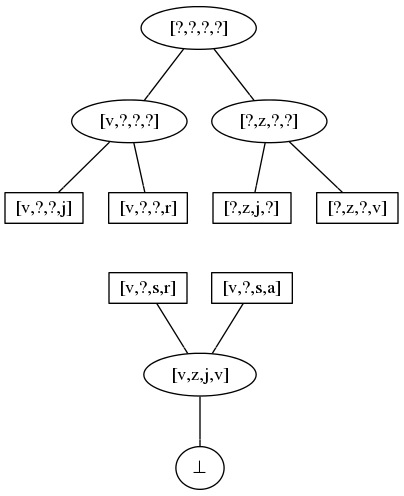
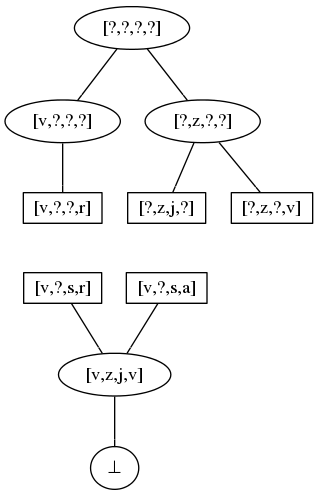
correction of question 2

diff --git a/ai_vraag_4.tex b/ai_vraag_4.tex
@@ -34,9 +34,9 @@ Als student krijg je tijdens het werken wel eens zin in spek met eieren. Als lui
 \caption{begin- en eindtoestand}
 \label{ienf}
 \end{figure}
-Figuur \ref{ienf}, toont de begintoestand en de gewenste eindtoestand. In de begintoestand zit de student aan zijn bureau in zijn kamer en heeft hij honger. In de eindtoestand zit de student weer aan zijn bureau en heeft hij een bord met gebakken spek en eieren.
+Figuur \ref{ienf} toont de begintoestand en de gewenste eindtoestand. In de begintoestand zit de student aan zijn bureau in zijn kamer en heeft hij honger. In de eindtoestand zit de student weer aan zijn bureau en heeft hij een bord met gebakken spek en eieren.
 \subsection{Acties}
-Het hele proces kan beschreven worden een door aantal acties die de student kan ondernemen.
+Het hele proces kan beschreven worden door een aantal acties die de student kan ondernemen.
 \begin{itemize}
 \item
 De student kan naar de keuken wandelen en terug. In figuur \ref{keuken} staan de overeenkomstige acties beschreven.
@@ -158,10 +158,10 @@ In de keuken kan de student koken en alle overeenkomstige acties daarvoor staan 
 \label{strips_1}
 \includegraphics[scale=0.25]{resources/graphs/strips_1.png}
 \end{figure}
-In het eerste deel van de oplossing stellen we de graaf op met alle 'establishes' en 'threatens' relaties. Dit gebeurt als volgt. We beginnen met de begin en de eindsituatie te tekenen. Nu gaan we alle precondities voor de eindsituatie af. Voor elke operatie die we toevoegen gaan we diepte eerst, recursief alle precondities af. $In(Kamer)$ is al waar bij het begin. We proberen aan $Heeft(Maaltijd)$ te voldoen door $LOB$ toe te voegen. Om aan de preconditities van $LOB$ te voldoen voegen we eerst $HEEN$ toe (om aan $In(Keuken)$ te voldoen). We zien nu dat $DEL In(Kamer)$ van $HEEN$ $ADD In(Kamer)$ bedreigt. Dit betekent dat $HEEN$ ofwel voor het begin zou moeten gebeuren, ofwel na het einde. Omdat dit beide niet kan verwijderen we de 'establishes' boog van $BEGIN$ naar $EINDE$ (Deze boog is wel getekend voor de duidelijkheid). Deze procedure zetten we verder tot aan alle precondities van $EINDE$ voldaan is en we een graaf bekomen zoals in figuur \ref{strips_1} \footnote{Ter informatie: De uiteenzetting van de procedure is niet gevraagd.}.
+In het eerste deel van de oplossing stellen we de graaf op met alle 'establishes' en 'threatens' relaties. Dit gebeurt als volgt. We beginnen met de begin en de eindsituatie te tekenen. Nu gaan we alle precondities voor de eindsituatie af. Voor elke operatie die we toevoegen gaan we diepte eerst, recursief alle precondities af. $In(Kamer)$ is al waar bij het begin. We proberen aan $Heeft(Maaltijd)$ te voldoen door $LOB$ toe te voegen. Om aan de precondities van $LOB$ te voldoen voegen we eerst $HEEN$ toe (om aan $In(Keuken)$ te voldoen). We zien nu dat $DEL In(Kamer)$ van $HEEN$ $ADD In(Kamer)$ bedreigt. Dit betekent dat $HEEN$ ofwel voor het begin zou moeten gebeuren, ofwel na het einde. Omdat dit allebei niet kan, verwijderen we de 'establishes' boog van $BEGIN$ naar $EINDE$ (Deze boog is wel getekend voor de duidelijkheid). Deze procedure zetten we verder tot aan alle precondities van $EINDE$ voldaan is en we een graaf bekomen zoals in figuur \ref{strips_1} \footnote{Ter informatie: De uiteenzetting van de procedure is niet gevraagd.}.
 
 In de graaf van figuur \ref{strips_1} zijn de groene bogen de 'establishes' bogen. Ze houden in dat de eigenschap bij het vertrekpunt ervoor zorgt dat aan een eigenschap bij het eindpunt voldaan is. De operatie waar de boog begint moet dus voor de operatie aan het eind van de boog plaatsvinden.
-De De rode bogen zijn de 'threatens' bogen. Deze betekenen dat de eigenschap bij het vertrekpunt de eigenschap bij het vertrekpunt van de boog waar hij naar wijst ongedaan maakt. De operatie waar de rode boog begint moet dus ofwel voor het vertrekpunt van de boog waar hij naar wijst plaatsvinden, ofwel na het eindpunt.
+De rode bogen zijn de 'threatens' bogen. Deze betekenen dat de eigenschap bij het vertrekpunt de eigenschap bij het vertrekpunt van de boog waar hij naar wijst ongedaan maakt. De operatie waar de rode boog begint moet dus ofwel voor het vertrekpunt van de boog waar hij naar wijst plaatsvinden, ofwel na het eindpunt.
 \subsection{Before-graaf}
 \begin{figure}[H]
 \centering
@@ -172,9 +172,9 @@ De De rode bogen zijn de 'threatens' bogen. Deze betekenen dat de eigenschap bij
 In figuur \ref{strips_2} is de graaf getekend met alle 'before'
 -relaties. We kunnen nu de mogelijke plannen opstellen. 
 
-In elk plan moeten we eerst naar de keuken gaan en op het einde het ei en het spek op een bord leggen, waarna we terug naar de kamen gaan. Er zijn echter een aantal mogelijke plannen omdat we daartussen kunnen koken in een aantal mogelijke volgorden.
+In elk plan moeten we eerst naar de keuken gaan en op het einde het ei en het spek op een bord leggen, waarna we terug naar de kamer gaan. Er zijn echter een aantal mogelijke plannen omdat we daartussen kunnen koken in verschillende volgorden.
 
-Het is makkelijk in te zien dat het niet uitmaakt of we eerst het ei bakken en daarna het spek. Bovendien maakt het niet uit of we eerst het ei uit de koelkast nemen of eerst het spek. We kunnen zelfs eerst het ei uit de koelkast nemen, dan het spek, eerst het spek bakken, en daarna pas het ei. Alle mogelijkheden zijn hieronder samengevat.
+Het is gemakkelijk in te zien dat het niet uitmaakt of we eerst het ei bakken en daarna het spek. Bovendien maakt het niet uit of we eerst het ei uit de koelkast nemen of eerst het spek. We kunnen zelfs eerst het ei uit de koelkast nemen, dan het spek, eerst het spek bakken, en daarna pas het ei. Alle mogelijkheden zijn hieronder samengevat.
 \[
 \begin{array}{c}
 BEGIN \rightarrow HEEN \rightarrow NE \rightarrow NS \rightarrow BE \rightarrow BS \rightarrow DSO\rightarrow LBO \rightarrow TERUG \rightarrow EINDE\\

diff --git a/ai_vraag_1.tex b/ai_vraag_1.tex
@@ -19,9 +19,9 @@ We kunnen het zoeken naar een oplossing modelleren met behulp van een graaf, waa
 \subsection{Eindtoestand} De begintoestand is gegeven in figuur \ref{rushour}. De eindtoestand is een toestand waarin de rode auto zich buiten het bord bevindt. 
 
 \subsection{Kostfunctie}De kostfunctie voor het A* algoritme is een belangrijke parameter. De kost van een toestand beschrijven we als het aantal vakjes dat alle autootjes in totaal verplaatst zijn om tot de huidige toestand te komen. We zouden kunnen opteren voor het aantal zetten dat nodig is om in de huidige toestand te komen als kostfunctie. Deze functie maakt minder onderscheid tussen goede en slechte toestanden en zal het probleem dus minder snel oplossen.
-5
-\subsection{Heuristische functie} De heuristische functie is een volgende belangrijke parameter voor het A* algoritme. Als heuristiek kiezen we het kleinste aantal auto's dat onbeweeglijk in de weg staat van de rode auto. We weten zeker dat dit een onderschatting is voor de totale kost omdat minstens al die auto's aan de kant moeten gezet worden. Als heuristiek kunnen we ook
-\footnote{We voegen hier nog één aan toe, omdat doeltoestanden dan precies één hebben als heuristische waarde en omdat de heuristische waarde van een toestand dan heel makkelijk intu\"itief te zien is. bvb: De heuristische waarde van de root is $3$ want $C$ staat in de weg van de rode auto en om $C$ te verplaatsen moeten er minstens $2$ auto's verplaatst worden, namelijk $A$ en $B$ of $O$ en $D$.}.
+
+\subsection{Heuristische functie} De heuristische functie is een volgende belangrijke parameter voor het A* algoritme. Als heuristiek kiezen we het kleinste aantal auto's dat onbeweeglijk in de weg staat van de rode auto. We weten zeker dat dit een onderschatting is voor de totale kost omdat minstens al die auto's aan de kant moeten gezet worden. \footnote{We voegen hier nog \'e\'en aan toe, omdat doeltoestanden dan precies $0$ hebben als heuristische waarde en omdat de heuristische waarde van een toestand dan heel makkelijk intu\"itief te zien is. bvb: De heuristische waarde van de root is $3$ want $C$ staat in de weg van de rode auto en om $C$ te verplaatsen moeten er minstens $2$ auto's verplaatst worden, namelijk $A$ en $B$ of $O$ en $D$.}
+Als heuristiek kunnen we bij voorbeeld ook de afstand van het rode autootje naar zijn doelpositie gebruiken. We doen dit hier niet omdat dit een minder goede heuristiek is.
 
 \section{Modeloplossing}
 De volledige oplossing voor dit probleem is sneller uit te leggen aan de hand van een rush-hour spelbord dan op papier. Dit probleem is echter een prachtig voorbeeld van hoe uiteenlopend de toepassingen van A* zijn. Daarom zal ik elk aspect van A* uit de oplossing eens volledig uitwerken maar niet elke keer. Ik zal het probleem dus niet volledig oplossen, maar wel zo veel als nodig. Het volledige A* algoritme bevindt zich nog eens in de appendix (\ref{A*}).
@@ -488,7 +488,7 @@ We zien nu dat er een doeltoestand in de rij staat, namelijk $T_{49}$, maar A* z
 De verdere uitwerking van de oplossing zal ik hier niet volledig opschrijven, maar beschrijven.
 
 Eigen aan dit probleem is dat er in de latere iteraties zeer veel cycli zullen worden gevormd, omdat het aantal mogelijke staten eindig en zelfs vrij klein is.
-Als we de vierde iteratie naar de rij kijken, zien we dat de doeloplossing die er in zit, op de negende plaats staat. Vanaf nu zal A* enkel nog oplossingen vinden die slechter zijn dan het pad naar $T_{49}$, en dus worden verwijderd. In deze opgave is het toevallig zo dat er twee even lange paden zijn naar een eindtoestand. A* zal ze dus zeker alle twee gevonden hebben op een bepaald moment. Het algoritme zal één van de twee paden verwijderen uit de rij. We weten dus dat A*, in dit specifiek geval, nog minstens 9 iteraties zal voltooien voordat het tot een oplossing komt. Bovendien zijn er paden die nooit zullen bekeken worden. Hiervan is het pad met $T_{14}$ een voorbeeld.
+Als we de vierde iteratie naar de rij kijken, zien we dat de doeloplossing die er in zit, op de negende plaats staat. Vanaf nu zal A* enkel nog oplossingen vinden die slechter zijn dan het pad naar $T_{49}$, en dus worden verwijderd. In deze opgave is het toevallig zo dat er twee even lange paden zijn naar een eindtoestand. A* zal ze dus zeker alle twee gevonden hebben op een bepaald moment. Het algoritme zal \'e\'en van de twee paden verwijderen uit de rij. We weten dus dat A*, in dit specifiek geval, nog minstens 9 iteraties zal voltooien voordat het tot een oplossing komt. Bovendien zijn er paden die nooit zullen bekeken worden. Hiervan is het pad met $T_{14}$ een voorbeeld.
 
 Elk aspect van A* is nu aan bod gekomen.
 \begin{itemize}

diff --git a/ai_vraag_2.tex b/ai_vraag_2.tex
@@ -56,9 +56,9 @@ Aan de hand van de formulering van het systeem heeft het IT departement een hypo
 \begin{tikzpicture}
 \node (h) at (-4,-0.5) {Muzieksmaak};
 \node (hG) at (-4,-1) {\small ?};
-\node (hi) at (-5,-2.5) {\small mainstream \tiny i};
+\node (hi) at (-5,-2.5) {\small mainstream \tiny m};
 \draw[->] (hG) -- (hi);
-\node (hig) at (-6,-4.25) {\small pop \tiny g};
+\node (hig) at (-6,-4.25) {\small pop \tiny p};
 \draw[->] (hi) -- (hig);
 \node (hil) at (-5,-3.75) {\small latin \tiny l};
 \draw[->] (hi) -- (hil);
@@ -105,7 +105,7 @@ S = \{\bot\}
 \[
 G = \{[?,?,?,?]\}
 \]
-De hypothesen die in $S$ en $G$ zitten zijn na elke iteratie getekend in een graaf. De graag bestaat uit twee bomen waarvan de bovenste $S$ voorstelt en de onderste $G$. Niet alle hypothesen die getekend zijn zitten echter in $G$ of in $S$. Als een hypothese niet in \'e\'en van de verzamelingen zit wordt het met een ellips afgebeeld. De rechthoekige nodes zitten wel in $G$ of $S$.
+De hypothesen die in $S$ en $G$ zitten zijn na elke iteratie getekend in een graaf. De graaf bestaat uit twee bomen waarvan de bovenste $S$ voorstelt en de onderste $G$. Niet alle hypothesen die getekend zijn zitten echter in $G$ of in $S$. Als een hypothese niet in \'e\'en van de verzamelingen zit wordt het met een ellips afgebeeld. De rechthoekige nodes zitten wel in $G$ of $S$.
 \subsection{Iteratie 1}
 \begin{figure}
 [H]
@@ -128,7 +128,7 @@ Het eerste voorbeeld is een positief voorbeeld. We generaliseren alle hypothesen
 \label{iter_2}
 \includegraphics[scale=0.5]{resources/graphs/iteration_2.png}
 \end{figure}
-Het volgende voorbeeld is negatief beoordeeld. We specifi\"eren alle hypothesen in $G$ waaraan het voorbeeld voldoet. $[m,j,p,g]$ voldoet aan $[?,?,?,?]$ dus we moeten dit specifi\"eren tot het voorbeeld net niet meer aan die nieuwe hypothese(n) voldoet. We voegen in totaal zes hypothesen toe onder $[?,?,?,?]$. Nu begint het snoeien. We verwijderen $[?,o,?,?]$ en $[?,?,?,f]$ omdat deze hypothesen inconsistent zijn met $[v,z,j,v]$. Een overzicht van deze iteratie zien we in figuur \ref{iter_2}.
+Het volgende voorbeeld is negatief beoordeeld. We specifi\"eren alle hypothesen in $G$ waaraan het voorbeeld voldoet. $[m,j,p,j]$ voldoet aan $[?,?,?,?]$ dus we moeten dit specifi\"eren tot het voorbeeld net niet meer aan die nieuwe hypothese(n) voldoet. We voegen in totaal zes hypothesen toe onder $[?,?,?,?]$. Nu begint het snoeien. We verwijderen $[?,o,?,?]$ en $[?,?,?,f]$ omdat deze hypothesen inconsistent zijn met $[v,z,j,v]$. Een overzicht van deze iteratie zien we in figuur \ref{iter_2}.
 \begin{itemize}
 \item $G = \{[v,?,?,?],[?,z,?,?],[?,?,s,?],[?,?,?,r]\}$
 \item $S = \{[v,z,j,v]\}$
@@ -160,7 +160,7 @@ $[?,z,?,n]$ en $[?,z,j,?]$, $[?,z,?,v]$
 \end{figure}
 Het volgende voorbeeld $4$ is een tweede voorbeeld dat positief beoordeeld is. We generaliseren $[v,s,j,v]$ tot een hypothese die ook het nieuwe voorbeeld omvat. Hiervoor zijn twee mogelijkheden die we beide toevoegen zoals beschreven in figuur \ref{iter_4}.
 \begin{itemize}
-\item $G = \{[?,v,?,j],[v,?,?,r],[?,z,j,?],[?,z,?,v]\}$
+\item $G = \{[v,?,?,r],[?,z,j,?],[?,z,?,v]\}$
 \item $S = \{[v,?,s,r],[v,?,s,a]\}$
 \end{itemize}
 \subsection{Iteratie 5}
@@ -173,7 +173,7 @@ Het volgende voorbeeld $4$ is een tweede voorbeeld dat positief beoordeeld is. W
 \end{figure}
 In iteratie 5 behandelen we ten slotte nog een positief voorbeeld. Deze keer wordt er maar \'e\'en hypothese toegevoegd en deze wordt meteen al weer verwijderd omdat ze een generalisatie is van $[v,?,s,r]$ en dus redundant is. De beschrijving van deze iteratie is te vinden in figuur \ref{iter_5}. Het resultaat van het version spaces algoritme zien we in figuur \ref{resultaat}.
 \begin{itemize}
-\item $G = \{[?,v,?,j],[v,?,?,r],[?,z,j,?],[?,z,?,v]\}$
+\item $G = \{[v,?,?,r],[?,z,j,?],[?,z,?,v]\}$
 \item $S = \{[v,?,s,r],[v,?,s,a]\}$
 \item Gesnoeid: $[v,?,s,?]$
 \end{itemize}
@@ -188,5 +188,5 @@ In iteratie 5 behandelen we ten slotte nog een positief voorbeeld. Deze keer wor
 
 \subsection{beslissingsprocedure}
 De dame die aan het eind van de dag binnenkomt wordt als $[v,j,j,j]$ gecategoriseerd.
-We kijken nu naar $S\cup G$ en zien dat deze persoon aan \'e\'en hypothesen voldoet en niet aan de vijf andere. Als we ervan uitgaan dat elke hypothese evenveel waard is kunnen we besluiten dat de cli\"ent deze dame met een grotere kans zal afkeuren dan aanvaarden.
+We kijken nu naar $S\cup G$ en zien dat deze persoon aan geen enkele hypothese voldoet. We besluiten dat de cli\"ent deze dame met waarschijnlijk zal afkeuren.
 \end{document}

diff --git a/ai_vraag_5.tex b/ai_vraag_5.tex
@@ -3,7 +3,7 @@
 
 \chapter{Kater}
 \section{Vraag}
-Op een ochtend word je met barstende hoofdpijn wakker in je bed op kot. Je herinnert je dat je op een kroegentocht bent geweest op de grote markt. Je zou de grote markt in wijzerzin afgaan beginnende bij caf\'e Manger \footnote{Ter herinnering: De cafe's op de oude markt in volgorde zijn "Manger, Alegria, Rock Caf\'e, Cafe 33}. Je herinnert je nog dat je in cafe Manger en in de Alegria bent geweest, over de gebeurtenissen daarna weet je niets meer. Je belt naar je beste vriend en die zegt dat hij met jou in het Rock Caf\'e aan de toog heeft gezeten. Na het telefoontje besef je dat als je je beste vriend hebt gezien, hij je dan zeker nog naar \'e\'en volgend caf\'e heeft meegenomen. Je vraagt je af of je in Caf\'e 33 bent geraakt.
+Op een ochtend word je met barstende hoofdpijn wakker in je bed op kot. Je herinnert je dat je op een kroegentocht bent geweest op de grote markt. Je zou de grote markt in wijzerzin afgaan beginnende bij caf\'e Manger \footnote{Ter herinnering: De caf\'e's op de oude markt in volgorde zijn "Manger, Alegria, Rock Caf\'e, Cafe 33}. Je herinnert je nog dat je in caf\'e Manger en in de Alegria bent geweest, over de gebeurtenissen daarna weet je niets meer. Je belt naar je beste vriend en die zegt dat hij met jou in het Rock Caf\'e aan de toog heeft gezeten. Na het telefoontje besef je dat als je je beste vriend hebt gezien, hij je dan zeker nog naar \'e\'en volgend caf\'e meegenomen. Je vraagt je af of je in Caf\'e 33 bent geraakt.
 
 Als goede informaticus merk je meteen op dat dit probleem op te lossen valt met een automatisch redeneersysteem. Probeer te bewijzen dat je in De Kroeg bent geraakt. Als hulpmiddel krijg je het alfabet. Let goed op dat je ook de impliciete logische beweringen formuleert.
 
@@ -49,7 +49,7 @@ We vertalen nu alle mogelijke gegevens uit de opgave. De eerste vier beweringen 
 \[
 L(CM,AG) \wedge L(AG,RC) \wedge L(RC,C3)
 \]
-\item Als iemand je in een caf\'e heeft gezien ben je daar geweest.
+\item Als iemand je in een caf\'e heeft gezien, ben je daar geweest.
 \[
 (\forall a)(C(a) \Rightarrow ((\exists p) (P(p) \wedge G(p,a)) \Rightarrow Gw(a)))
 \]
@@ -65,7 +65,7 @@ Gw(CM) \wedge Gw(AG)
 \[
 G(BV,RC)
 \]
-\item Als je je beste vriend hebt gezien, heeft hij je zeker dan nog naar \'e\'en volgend caf\'e heeft meegenomen.
+\item Als je je beste vriend hebt gezien, heeft hij je zeker dan nog naar \'e\'en volgend caf\'e meegenomen.
 \[
 (\forall d) ((C(d) \wedge G(BV,d)) \Rightarrow ((\exists e) (C(e) \wedge Gw(e) \wedge L(d,e))))
 \]
@@ -76,7 +76,7 @@ Gw(C3)
 \]
 
 \subsection{Implicatieve normaalvorm}
-We zetten nu alle vertaalde formules nu om naar implicatieve normaalvorm.
+We zetten nu alle vertaalde formules om naar implicatieve normaalvorm.
 Wanneer kwantoren weggelaten kunnen worden, worden ze eerst in het rood gezet. De bekomen logische zinnen (dit kunnen er meerdere zijn) worden achteraf nog samengevat. Tenslotte voegen we ook negatie van de hypothese toe en zetten deze ook om naar implicatieve normaalvorm.
 \begin{itemize}
 \item $C(CM)\wedge C(AG)\wedge C(RC)\wedge C(C3)$
@@ -183,7 +183,7 @@ False \leftarrow Gw(C3)
 \end{itemize}
 
 \subsection{Resolutie}
-De resolutie is eigenlijk helemaal niet zo moeilijk, maar je kan heel lang bezig zijn als je het te ver gaat zoeken. Wanneer we met een andere formule starten 
+De resolutie is eigenlijk helemaal niet zo moeilijk, maar je kan heel lang bezig zijn als je het te ver gaat zoeken.
 
 \begin{enumerate}
 
@@ -206,7 +206,7 @@ De resolutie is eigenlijk helemaal niet zo moeilijk, maar je kan heel lang bezig
 
 \item $False \leftarrow True$
 \end{enumerate}
-We vinden een contradictie in stap $4$. Omdat we tot een contradictie komen door de negatie van het te bewijzen toe te voegen aan de gegevens kunnen we besluiten dat de hypothese geldt in de gegeven structuur.
+We vinden een contradictie in stap $4$. Omdat we tot een contradictie komen door de negatie van de hypothese toe te voegen aan de gegevens kunnen we besluiten dat de hypothese geldt in de gegeven structuur.
 
 
 

diff --git a/ai_reflectie.tex b/ai_reflectie.tex
@@ -4,7 +4,7 @@
 \chapter*{Reflectie}
 Dit was veruit het fijnste ge\"evalueerde werk dat ik al heb mogen doen. Ik zou daarom graag Professor De Schreye en zijn assistenten bedanken voor de mogelijkheid om dit alternatief examen te maken.
 
-\noindent Als u dit leest als student die overweegt deze vorm van examen te maken wil ik u graag nog op een aantal punten wijzen.
+\noindent Als u dit leest als student die overweegt deze vorm van examen te maken, wil ik u graag nog op een aantal punten wijzen.
 \begin{itemize}
 \item Ik vond deze vorm van evaluatie persoonlijk veel leerrijker dan een klassiek examen.
 \item Dit examen heb ik volledig gemaakt voor dat de blokperiode begon. Op deze manier had ik meer tijd voor mijn andere vakken.

diff --git a/ai_inleiding.tex b/ai_inleiding.tex
@@ -9,7 +9,7 @@ Dit werk vormt de evaluatie van het vak Artifici\"ele intelligentie (H06U1A). De
 In dit werk neemt de lezer de rol aan van een student informatica aan de KU Leuven in de tweede fase en gaat hij mee in typische situaties uit het studentenleven.
 
 \vspace{1cm}
-\noindent Al vast veel plezier.
+\noindent Alvast veel plezier.
 
 
 \end{document}
